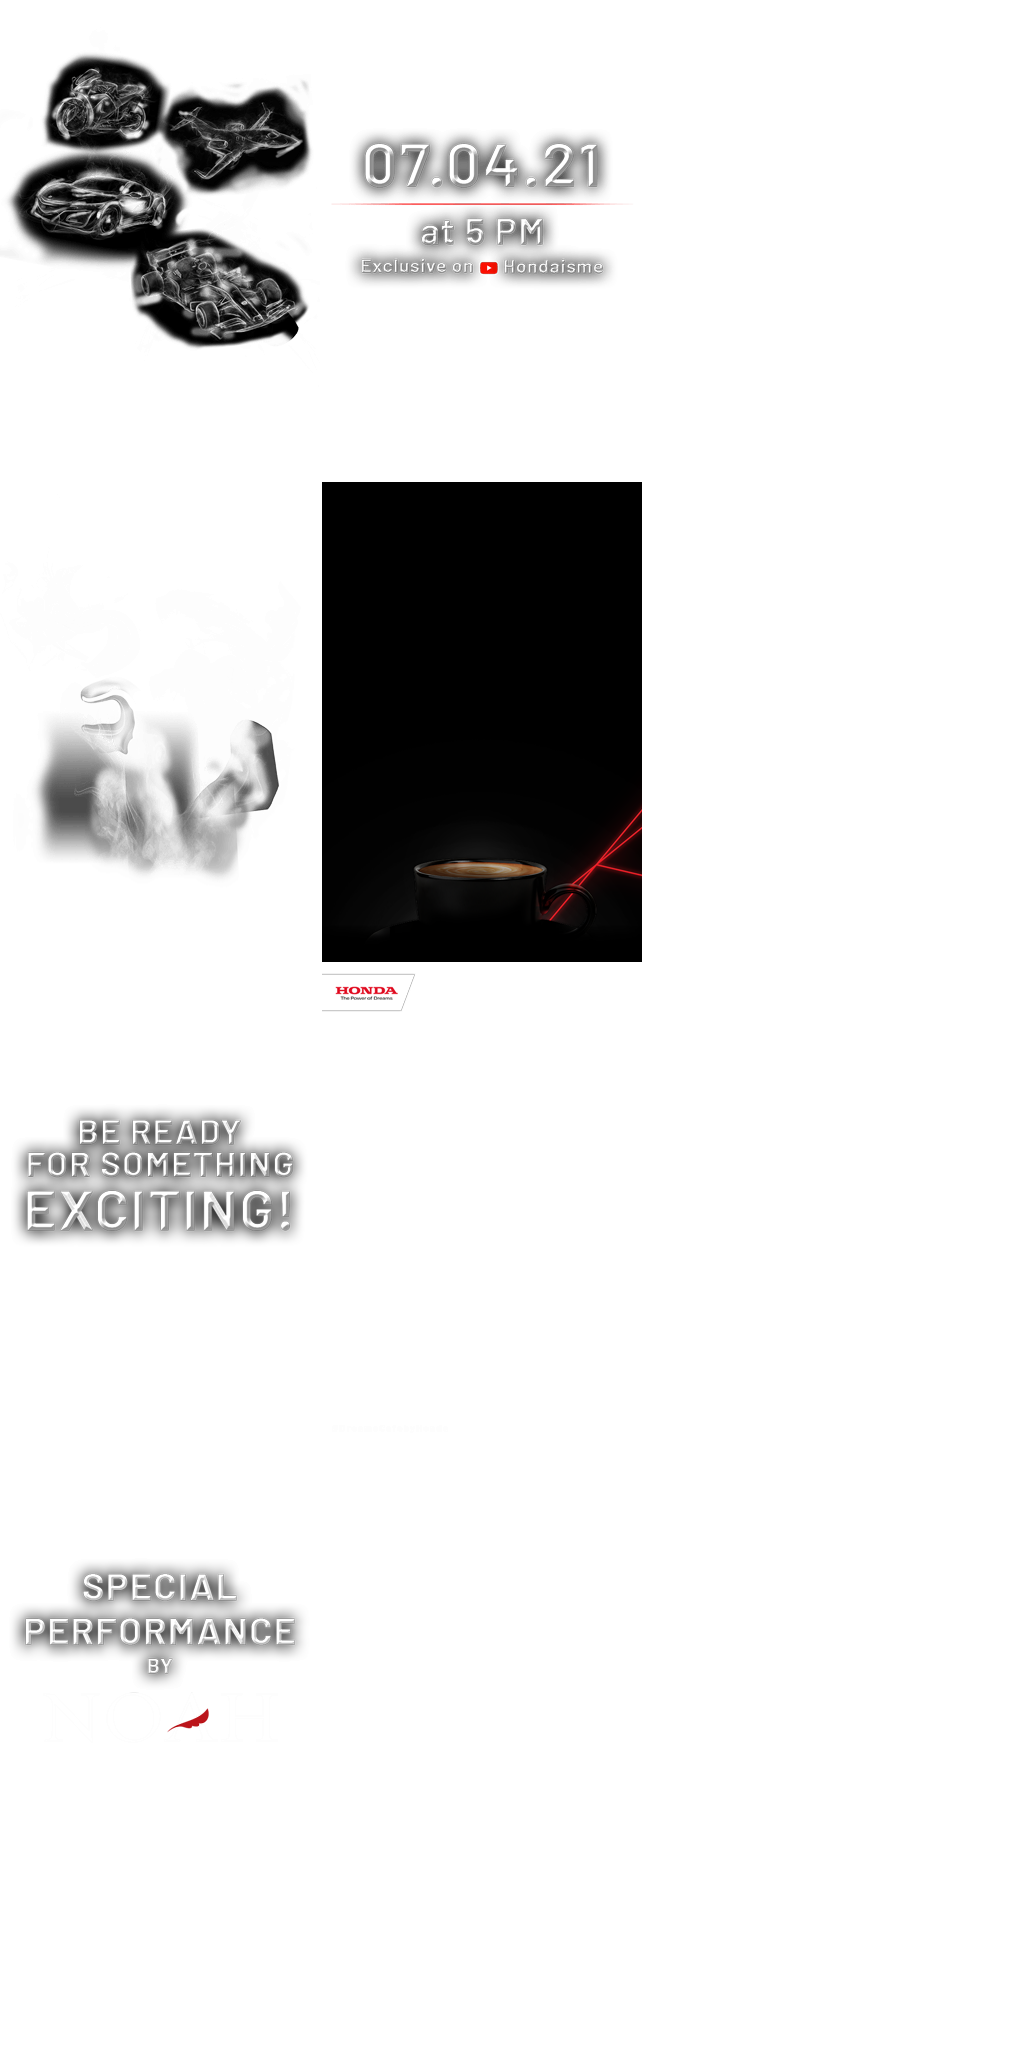
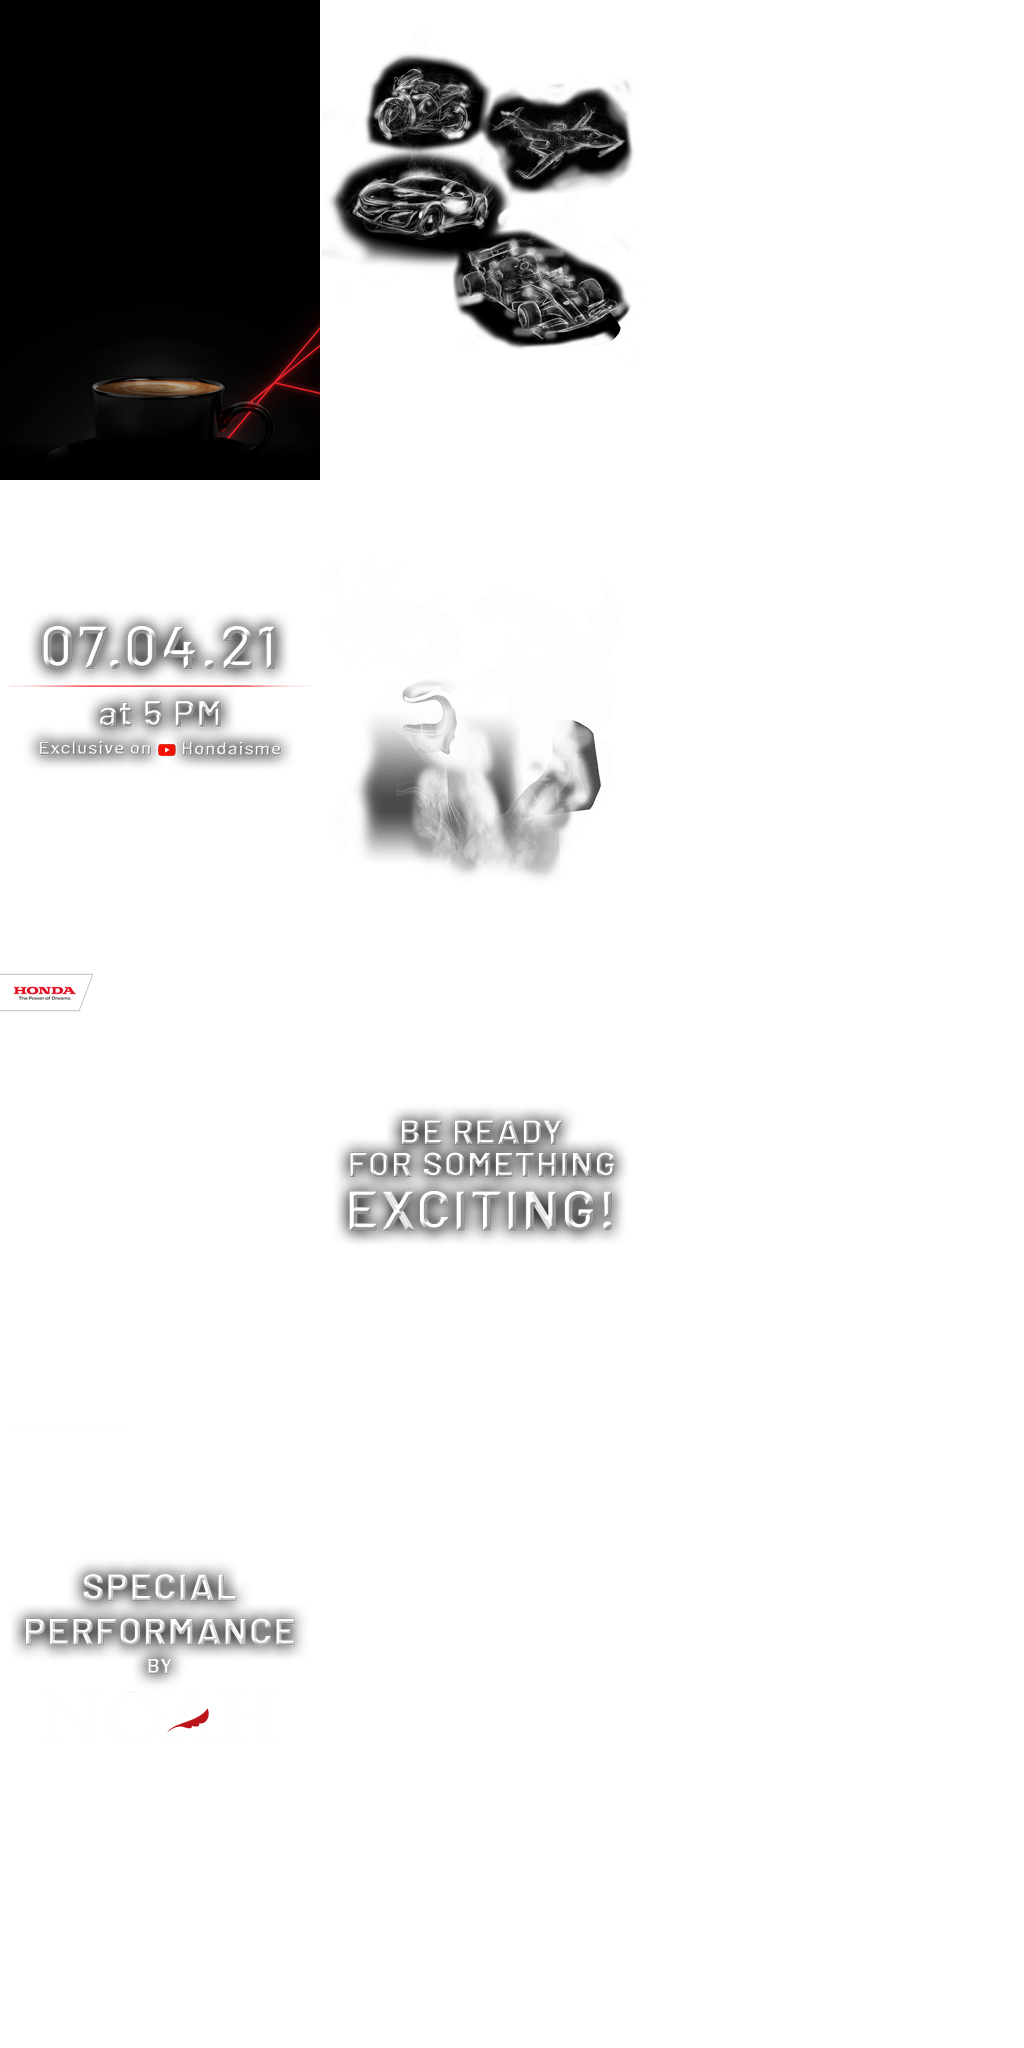
sggsr

diff --git a/m.idntimes/megabillboard/honda-april/src/320x480/320x480.js b/m.idntimes/megabillboard/honda-april/src/320x480/320x480.js
@@ -3,7 +3,7 @@
 var p; // shortcut to reference prototypes
 var lib={};var ss={};var img={};
 lib.ssMetadata = [
-		{name:"320x480_atlas_", frames: [[0,0,320,480],[0,482,320,480],[0,964,320,480],[0,1446,320,480],[322,0,320,480],[322,482,320,480],[322,964,320,480]]}
+		{name:"320x480_atlas_", frames: [[322,0,320,480],[322,482,320,480],[322,964,320,480],[0,1446,320,480],[0,482,320,480],[0,0,320,480],[0,964,320,480]]}
 ];
 
 
